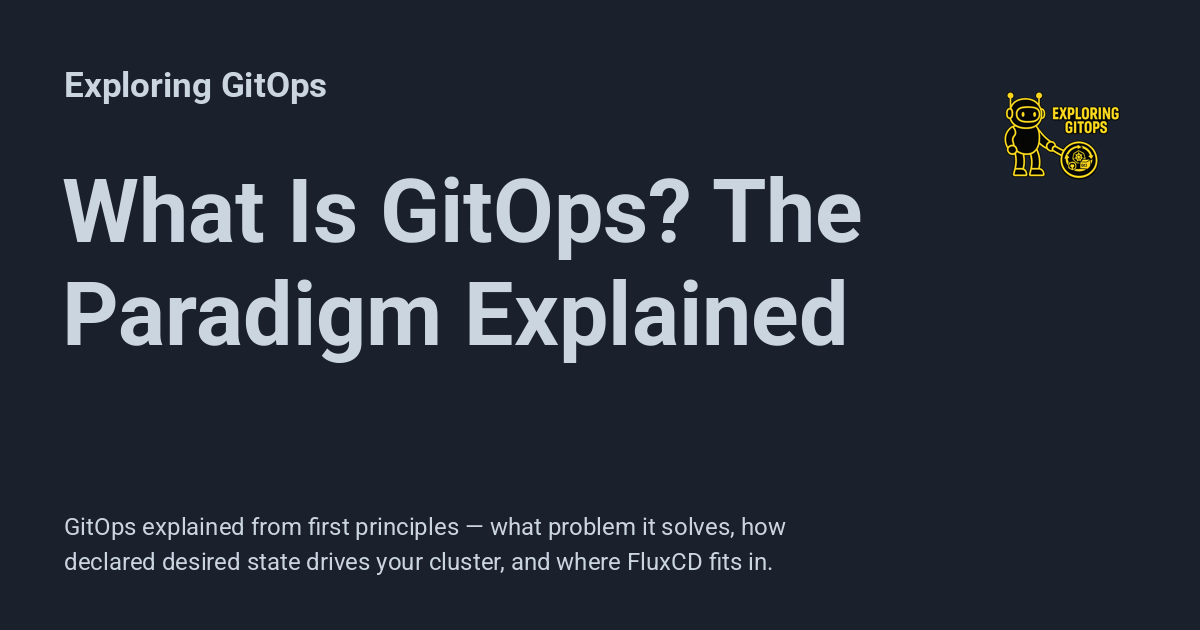
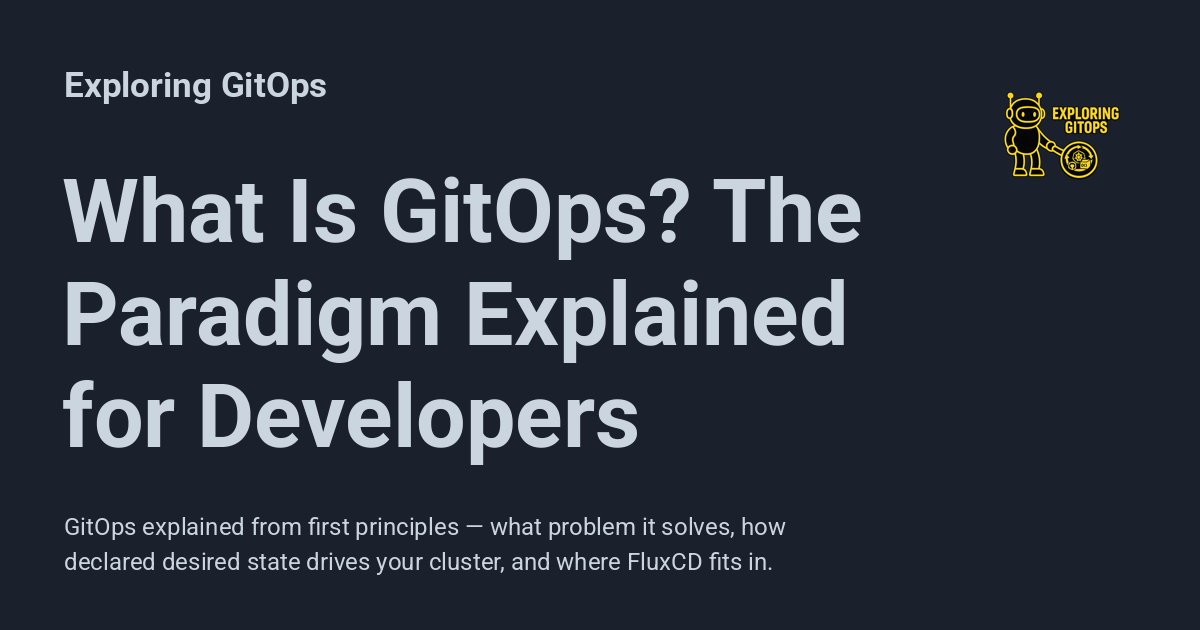
Finished Day One

Changed region(s): [[0.0308, 0.6032, 0.555, 0.754]]

diff --git a/docs/day_one/flux_resources.md b/docs/day_one/flux_resources.md
@@ -50,21 +50,37 @@ The chain is always: **source fetches content → reconciler applies it to the c
 
 An `OCIRepository` is a Flux source that watches an OCI-compliant artifact registry — [Harbor](https://goharbor.io/), AWS ECR, [JFrog Artifactory](https://jfrog.com/artifactory/) — for new versions of a versioned artifact. In an enterprise GitOps setup, this is the primary source for application deployments.
 
-When your CI pipeline builds and pushes `registry/my-app-config:v1.2.3`, the `OCIRepository` watching that registry detects the new semver tag and makes the artifact available to the `Kustomization` or `HelmRelease` that references it.
+You may well write one of these yourself — they live in your GitOps config repo. Authoring it isn't the restricted part; *deploying* it to production is, and that takes someone with the right permission (the SRE). Here's what one looks like:
+
+```yaml title="An OCIRepository (you write it; an SRE deploys it)" linenums="1"
+apiVersion: source.toolkit.fluxcd.io/v1beta2
+kind: OCIRepository
+metadata:
+  name: my-app
+  namespace: flux-system
+spec:
+  interval: 5m  # (1)!
+  url: oci://registry.company.com/my-app-config  # (2)!
+  ref:
+    semver: ">=1.2.0"  # (3)!
+```
+
+1.  How often Flux polls the registry for new tags.
+2.  The artifact repository Flux watches.
+3.  A semver *range* — dev and staging follow the newest match; production pins an exact tag instead.
+
+When your CI pipeline builds and pushes `registry/my-app-config:v1.2.3`, what happens next depends on *how* the `OCIRepository` references its tag:
+
+- **Following a semver range** (e.g. `>=1.2.0`) — the `OCIRepository` detects the new tag, selects the newest version that matches, and makes it available to the `Kustomization` or `HelmRelease` that references it. New artifacts are pulled in **automatically** — convenient for dev and staging.
+- **Pinned to an exact version** (e.g. `v1.2.3`) — Flux fetches only that version and ignores anything newer until someone changes the pin. Nothing moves on its own.
+
+**Production should be pinned.** With a pinned `OCIRepository`, a newly pushed artifact sits in the registry — available but *not* deployed — until a deliberate change advances the version. That controlled promotion is what production demands; an unpinned range would let prod drift onto whatever was pushed last. See [Your Flux Workflow](your_flux_workflow.md) for how that promotion is handled.
 
 ```bash title="Check OCIRepository status"
 kubectl get ocirepository -n flux-system
 # NAME       READY   STATUS                                          AGE
 # my-app     True    stored artifact for digest: sha256:abc123...   2d
 ```
-
-**Fields to read:**
-
-| Field | What It Means |
-|-------|--------------|
-| `READY: True` | Flux successfully fetched the artifact from the registry |
-| `READY: False` | Flux can't reach the registry, or no artifact satisfies the semver policy |
-| `stored artifact for digest` | The OCI digest of the artifact currently in use |
 
 ```bash title="Get full detail"
 kubectl describe ocirepository my-app -n flux-system
@@ -80,20 +96,34 @@ A `Kustomization` is a Flux reconciler that takes content from a source (usually
 
 Most applications have one `Kustomization` per environment (or per app). Your platform team controls how they're organised.
 
+Same story — yours to write, the SRE's to deploy:
+
+```yaml title="A Kustomization (you write it; an SRE deploys it)" linenums="1"
+apiVersion: kustomize.toolkit.fluxcd.io/v1
+kind: Kustomization
+metadata:
+  name: my-app
+  namespace: flux-system
+spec:
+  interval: 10m  # (1)!
+  sourceRef:
+    kind: OCIRepository  # (2)!
+    name: my-app
+  path: ./deploy/production  # (3)!
+  prune: true  # (4)!
+```
+
+1.  How often Flux re-checks the cluster against the manifests.
+2.  Where the manifests come from — the `OCIRepository` source above.
+3.  Which directory inside the artifact to apply.
+4.  Delete cluster resources that were removed from Git.
+
 ```bash title="Check Kustomization status"
 kubectl get kustomization -n flux-system
 # NAME              READY   STATUS                                 AGE
 # my-app            True    Applied revision: v1.2.3@sha256:abc   2d
 # infrastructure    True    Applied revision: v3.0.1@sha256:def   5d
 ```
-
-**Fields to read:**
-
-| Field | What It Means |
-|-------|--------------|
-| `READY: True` | Manifests applied successfully, cluster is in sync |
-| `READY: False` | Something in the manifests failed to apply |
-| `Applied revision` | The artifact version currently applied to the cluster |
 
 ```bash title="Get full detail when READY is False"
 kubectl describe kustomization my-app -n flux-system
@@ -109,19 +139,31 @@ A `HelmRelease` is a Flux reconciler that manages a [Helm](https://k8s.bradpenne
 
 If your application is deployed as a Helm chart, this is what Flux uses instead of (or alongside) a `Kustomization`.
 
+Likewise authored by you, deployed by the SRE:
+
+```yaml title="A HelmRelease (you write it; an SRE deploys it)" linenums="1"
+apiVersion: helm.toolkit.fluxcd.io/v2
+kind: HelmRelease
+metadata:
+  name: my-app
+  namespace: my-app
+spec:
+  interval: 10m
+  chartRef:
+    kind: OCIRepository  # (1)!
+    name: my-app
+  values:  # (2)!
+    replicaCount: 3
+```
+
+1.  The chart, delivered as an OCI artifact.
+2.  The same settings you'd otherwise put in `values.yaml`.
+
 ```bash title="Check HelmRelease status"
 kubectl get helmrelease -n <your-app-namespace>
 # NAME     READY   STATUS               AGE
 # my-app   True    Release reconciled   3h
 ```
-
-**Fields to read:**
-
-| Field | What It Means |
-|-------|--------------|
-| `READY: True` | Helm release installed or upgraded successfully |
-| `READY: False` | Helm install/upgrade failed |
-| `Release reconciled` | The release matches its declared state |
 
 ```bash title="Get full detail"
 kubectl describe helmrelease my-app -n <your-app-namespace>

diff --git a/docs/day_one/your_flux_workflow.md b/docs/day_one/your_flux_workflow.md
@@ -1,5 +1,5 @@
 ---
-title: "Your Flux Workflow: Commit, Build, Deploy"
+title: "Your Flux Workflow: Commit, Build, Publish"
 description: "How enterprise GitOps works: your CI pipeline builds a versioned OCI artifact, Flux reads it from your artifact registry, and your cluster reconciles."
 ---
 
@@ -127,33 +127,51 @@ Flux watches the manifest artifact via an [`OCIRepository`](https://fluxcd.io/fl
 In an enterprise GitOps environment, your workflow is deliberately minimal:
 
 ```mermaid
-flowchart LR
-    Write["Write code<br/>or config change"]
-    PR["Open a PR<br/>in your app repo"]
-    Review["Teammate reviews<br/>and approves"]
-    Merge["Merge to main"]
-    Done["Release cut; CI builds<br/>and publishes the artifact"]
+flowchart TD
+    Write["Write code"]
+    PRa["PR in your app repo"]
+    Mergea["Merge → CI builds<br/>image v4.7.1"]
+    Edit["Bump the image tag in the<br/>config repo: v4.7.0 → v4.7.1"]
+    PRc["PR in the config repo"]
+    Mergec["Merge → CI pushes OCI artifact<br/>v1.2.4 to the prod folder"]
+    Deploy["SRE deploys v1.2.4<br/>to production"]
 
-    Write --> PR --> Review --> Merge --> Done
+    Write --> PRa --> Mergea --> Edit --> PRc --> Mergec --> Deploy
 
     style Write fill:#2d3748,stroke:#cbd5e0,stroke-width:2px,color:#fff
-    style PR fill:#2d3748,stroke:#cbd5e0,stroke-width:2px,color:#fff
-    style Review fill:#4a5568,stroke:#cbd5e0,stroke-width:2px,color:#fff
-    style Merge fill:#4a5568,stroke:#cbd5e0,stroke-width:2px,color:#fff
-    style Done fill:#2f855a,stroke:#cbd5e0,stroke-width:2px,color:#fff
+    style PRa fill:#2d3748,stroke:#cbd5e0,stroke-width:2px,color:#fff
+    style Mergea fill:#4a5568,stroke:#cbd5e0,stroke-width:2px,color:#fff
+    style Edit fill:#2d3748,stroke:#cbd5e0,stroke-width:2px,color:#fff
+    style PRc fill:#2d3748,stroke:#cbd5e0,stroke-width:2px,color:#fff
+    style Mergec fill:#4a5568,stroke:#cbd5e0,stroke-width:2px,color:#fff
+    style Deploy fill:#2f855a,stroke:#cbd5e0,stroke-width:2px,color:#fff
 ```
+
+Two repos, two PRs — but it's all the same kind of work: edit, open a PR, get it reviewed, merge. You bump the image tag in the config repo by hand, and its release flow pushes the new OCI artifact into the **production folder** of the registry.
+
+Concretely, that "bump" is usually a one-line change to a manifest:
+
+```diff title="The change you make in the config repo (deployment.yaml)" linenums="1"
+       containers:
+         - name: my-app
+-          image: registry.company.com/my-app:v4.7.0
++          image: registry.company.com/my-app:v4.7.1
+```
+
+PR it, get it reviewed, merge — and the config repo's release flow turns that diff into OCI artifact `v1.2.4`. That single line is often the entire developer-facing change.
+
+That push is the edge of your authority. You hold **push-only** rights to the prod folder: you can publish a new OCI image into it, but you cannot change, delete, or reconfigure anything that's already there — and you cannot deploy it. An **SRE deploys** by advancing the version production's Flux is pinned to: production's `OCIRepository` watches that prod folder but stays fixed on one tested tag until the SRE moves the pin (see [Flux Resources Explained](flux_resources.md)).
 
 You do not:
 
 - Push to the cluster directly
-- Edit image tags in a config repo
-- Trigger deployments manually
-- Touch the OCI artifact or the registry
+- Deploy or promote anything to production yourself
+- Change, delete, or reconfigure existing artifacts in the prod folder
 
-Your CI pipeline does all of that. **Your job ends at the merge.**
+What you touch in the registry is narrow: you push new OCI images into the prod folder, nothing more. **Your job ends when the config-repo change is merged and the artifact lands in the registry.**
 
 !!! note "Who Ships It to Production? (Segregation of Duties)"
-    Your merge builds and publishes the artifact, and lower environments like dev and staging may reconcile to it automatically. Promoting it to **production**, though, is usually a *different person's* job — a release manager or the on-call SRE (site reliability engineer) advances the version Flux deploys to prod. The developer who wrote the change doesn't ship it there themselves. That separation is **segregation of duties**: a standard enterprise control, and often a compliance requirement.
+    Publishing an artifact and deploying it are two different rights. Your release pushes a new OCI image into the production folder of the registry — but you hold **push-only** access there. Advancing the version production's Flux actually deploys is the **SRE's** (site reliability engineer's) job. The developer who wrote the change can make the new version *available*, but doesn't *ship* it. That split — publish vs. deploy — is **segregation of duties**: a standard enterprise control, and often a compliance requirement.
 
 !!! tip "Where Do the Manifests Live?"
     We recommend **two repositories**: your **application repo** (the code) and a separate **GitOps config repo** (your Kubernetes manifests and Flux definitions). Keeping them apart means one config repo can bundle the manifests for *several* microservices, and config changes follow their own PR and release flow — independent of any single app's code. Releasing from the config repo is what produces the next versioned OCI manifest artifact.
@@ -201,7 +219,7 @@ Either way: you don't reach for `kubectl rollout undo`. The artifact registry is
     **Trace the full pipeline from merge to cluster update. What produces the new OCI artifact? What does it contain? How does Flux detect it?**
 
     ??? tip "Solution"
-        1. **PR merges** to `main` in the application repo
+        1. **PR merges** to `main` in the **GitOps config repo** — a ConfigMap is a manifest, so it lives there, not in the application repo
         2. **A release is cut** — tagging the new version (e.g., `v2.4.1`); this is what triggers CI
         3. **CI packages** the updated manifests (including the ConfigMap with `LOG_LEVEL: debug`) as an OCI artifact tagged `v2.4.1` and pushes it to the enterprise registry
         4. **Flux's OCIRepository** polls the registry on its interval (e.g., every 5 minutes), detects `v2.4.1` satisfies its semver policy (`>=2.0.0`), and fetches the artifact

diff --git a/docs/day_one/reading_flux_status.md b/docs/day_one/reading_flux_status.md
@@ -51,6 +51,14 @@ Your platform team controls which sources and reconcilers are set up — you may
 
 These commands cover the majority of what you'll need day-to-day. Flux resources typically live in the `flux-system` namespace.
 
+!!! tip "Friendlier tools than raw `kubectl`"
+    Everything below uses `kubectl` because it's always present. Two tools make Flux status easier to read if you have them:
+
+    - The [`flux` CLI](https://fluxcd.io/flux/cmd/) — `flux get kustomizations`, `flux get sources oci`, and `flux reconcile` give you the same information (and a manual sync) with friendlier output.
+    - [**flux9s**](https://flux9s.ca/) — a [k9s](https://k9scli.io/)-inspired terminal UI that watches your Flux resources live: reconciliation state, YAML, ownership traces, and history, all navigable with k9s-style keystrokes. If you live in the terminal and want an at-a-glance answer to "did my change land?", it's worth installing ([source](https://github.com/dgunzy/flux9s), Rust, Apache-2.0).
+
+    Use whichever you have — `kubectl` always works.
+
 !!! note "You May Not Have Access"
     Your platform team may use standard Kubernetes RBAC to limit who can read Flux resources — especially in the `flux-system` namespace. If a `kubectl get` here returns a `Forbidden` error, that's expected, not broken: ask your platform team for read access, or for the namespace where your app's resources live.
 
@@ -178,7 +186,7 @@ The `Message` field is where the actual error lives. In this example, a Service 
 
     `READY: Unknown` means Flux is mid-reconcile — fetching or applying the new artifact. (If instead it shows `READY: True` but the `Applied revision` is still your *previous* version, Flux simply hasn't polled the registry yet — there, the revision, not `READY`, is the tell.)
 
-    **What it means:** give it time. The default poll interval is 1-5 minutes. Wait and check again. If it's still not done after 10 minutes, check the `OCIRepository` status — Flux may not be reaching the registry.
+    **What it means:** give it time. The default poll interval is 1-5 minutes. Wait and check again — or, if you can't wait, your platform team can force an immediate sync with `flux reconcile source oci my-app` rather than waiting for the next poll. If it's still not done after 10 minutes, check the `OCIRepository` status — Flux may not be reaching the registry.
 
 === ":material-alert: Reconciliation Failed"
 
@@ -302,14 +310,13 @@ The `Message` field is where the actual error lives. In this example, a Service 
 
 ---
 
-## You've Completed Day One
+## What's Next
 
-You understand:
+You can now read whether a deployment landed. Along the way you've been running `kubectl get` against resource types — `OCIRepository`, `Kustomization`, `HelmRelease` — that don't exist in a standard cluster. The last Day One article explains exactly what each one is:
 
-- **What GitOps is** — Git as the source of truth, continuous reconciliation
-- **What FluxCD is** — the controller that implements GitOps for Kubernetes
-- **Your workflow** — commit your code, CI builds the versioned OCI artifact, Flux applies it
-- **How to check status** — whether your changes actually applied
+- **[Flux Resources Explained](flux_resources.md)** — a plain-language tour of the Flux resources you'll meet in the cluster, and how to read each at a glance.
+
+Once you've read that, you'll have the full Day One picture: what GitOps is, your role in the pipeline, how to verify your changes landed, and what every Flux resource in your cluster is doing.
 
 If you're responsible for *setting up* or *managing* Flux — installing it, configuring `OCIRepository` sources, managing secrets — that's the **Essentials** section. That's platform engineer territory.
 
@@ -329,6 +336,7 @@ If you're responsible for *setting up* or *managing* Flux — installing it, con
 
 ### Related Articles
 
+- [Flux Resources Explained](flux_resources.md) — what the `OCIRepository`, `Kustomization`, and `HelmRelease` resources you just queried actually are
 - [Your Flux Workflow](your_flux_workflow.md) — making changes through GitOps
 - [What Is GitOps?](what_is_gitops.md) — the paradigm behind what you just learned
 - [Day One Overview](overview.md) — the full Day One learning path

diff --git a/docs/day_one/what_is_gitops.md b/docs/day_one/what_is_gitops.md
@@ -1,5 +1,5 @@
 ---
-title: "What Is GitOps? The Paradigm Explained"
+title: "What Is GitOps? The Paradigm Explained for Developers"
 description: "GitOps explained from first principles — what problem it solves, how declared desired state drives your cluster, and where FluxCD fits in."
 ---
 
@@ -113,6 +113,8 @@ flowchart LR
 
 Notice what's missing: there's no step where you run [`kubectl apply`](https://k8s.bradpenney.io/day_one/kubectl/first_deploy/). The cluster pulls its own desired state — as a versioned artifact — and applies it continuously.
 
+One nuance these diagrams simplify: **dev and staging** can reconcile to each new version automatically, but **production is pinned** to a specific, tested version and moved forward by a deliberate promotion — it doesn't chase every new build. [Your Flux Workflow](your_flux_workflow.md) shows how that promotion happens.
+
 ---
 
 ## The Four Principles of GitOps
@@ -127,7 +129,7 @@ GitOps isn't just a tool preference — it's a set of principles. The [OpenGitOp
 
 === "Versioned and Immutable"
 
-    Every change is a commit in Git, and every release is packaged as an immutable, semver-tagged artifact — `registry/my-app:v1.2.3` is the same bytes today as the day it shipped. Git preserves *who changed what and when*; the artifact preserves *exactly what was deployed*. A mutable Git branch can't give you that — `main` today isn't `main` last week, but `v1.2.3` never changes.
+    Every change is a commit in Git, and every release is packaged as an immutable, semver-tagged artifact — `registry/my-app-config:v1.2.3` is the same bytes today as the day it shipped. Git preserves *who changed what and when*; the artifact preserves *exactly what was deployed*. A mutable Git branch can't give you that — `main` today isn't `main` last week, but `v1.2.3` never changes.
 
     **What this means for you:** Your authorship trail is `git log`. The precise, immutable version that ran is the artifact tag — that's what you pin to, audit, and roll back to.
 
@@ -198,12 +200,12 @@ If you've deployed to Kubernetes before, here's the practical shift:
 |--------------|----------------------|
 | [`kubectl apply -f deployment.yaml`](https://k8s.bradpenney.io/day_one/kubectl/first_deploy/) | Commit your manifests to Git, open a PR, merge |
 | `helm upgrade my-app ./chart` | Edit `values.yaml` in Git, open a PR, merge |
-| `kubectl set image deployment/...` | Commit your updated app code — CI builds a versioned artifact, Flux applies it |
+| `kubectl set image deployment/...` | Commit your updated app code — CI builds a versioned artifact; Flux deploys that version once it's promoted |
 | "Did that deploy?" → check `kubectl rollout status` | "Did that deploy?" → [check Flux reconciliation status](reading_flux_status.md) |
 | Rollback: `kubectl rollout undo` | SRE pins the artifact version; or revert your commit and let CI rebuild |
 
 !!! info "Who's Who: SRE vs Platform Team"
-    Two roles show up throughout Day One. The **platform team** builds and maintains the GitOps platform itself — installing Flux, wiring up sources, registries, and integrations. The **SRE** (site reliability engineer) owns production support and monitoring — incident response, rollbacks, and on-call. The **developer** (you) writes the code and merges the PR.
+    Two roles show up throughout Day One. The **platform team** builds and maintains the GitOps platform itself — installing Flux, wiring up sources, registries, and integrations. The **SRE** (site reliability engineer) owns production support and monitoring — incident response, rollbacks, and on-call. The **developer** (you) writes the code, merges the PR, and authors the deployment manifests. One boundary worth knowing now: publishing a new version and *promoting* it to production are separate rights — you publish, an SRE promotes. [Your Flux Workflow](your_flux_workflow.md) details that split.
 
 The muscle memory changes, but the underlying Kubernetes concepts don't. Pods still run. Deployments still manage ReplicaSets. Services still route traffic. GitOps changes *how* you describe what you want — not what Kubernetes does with that description.
 

diff --git a/docs/index.md b/docs/index.md
@@ -1,5 +1,5 @@
 ---
-title: "Exploring GitOps - FluxCD Guide"
+title: "Exploring GitOps - FluxCD Continuous Delivery Guide"
 description: "A progressive guide to GitOps and FluxCD — from understanding the paradigm to running production-grade continuous delivery in Kubernetes."
 ---
 